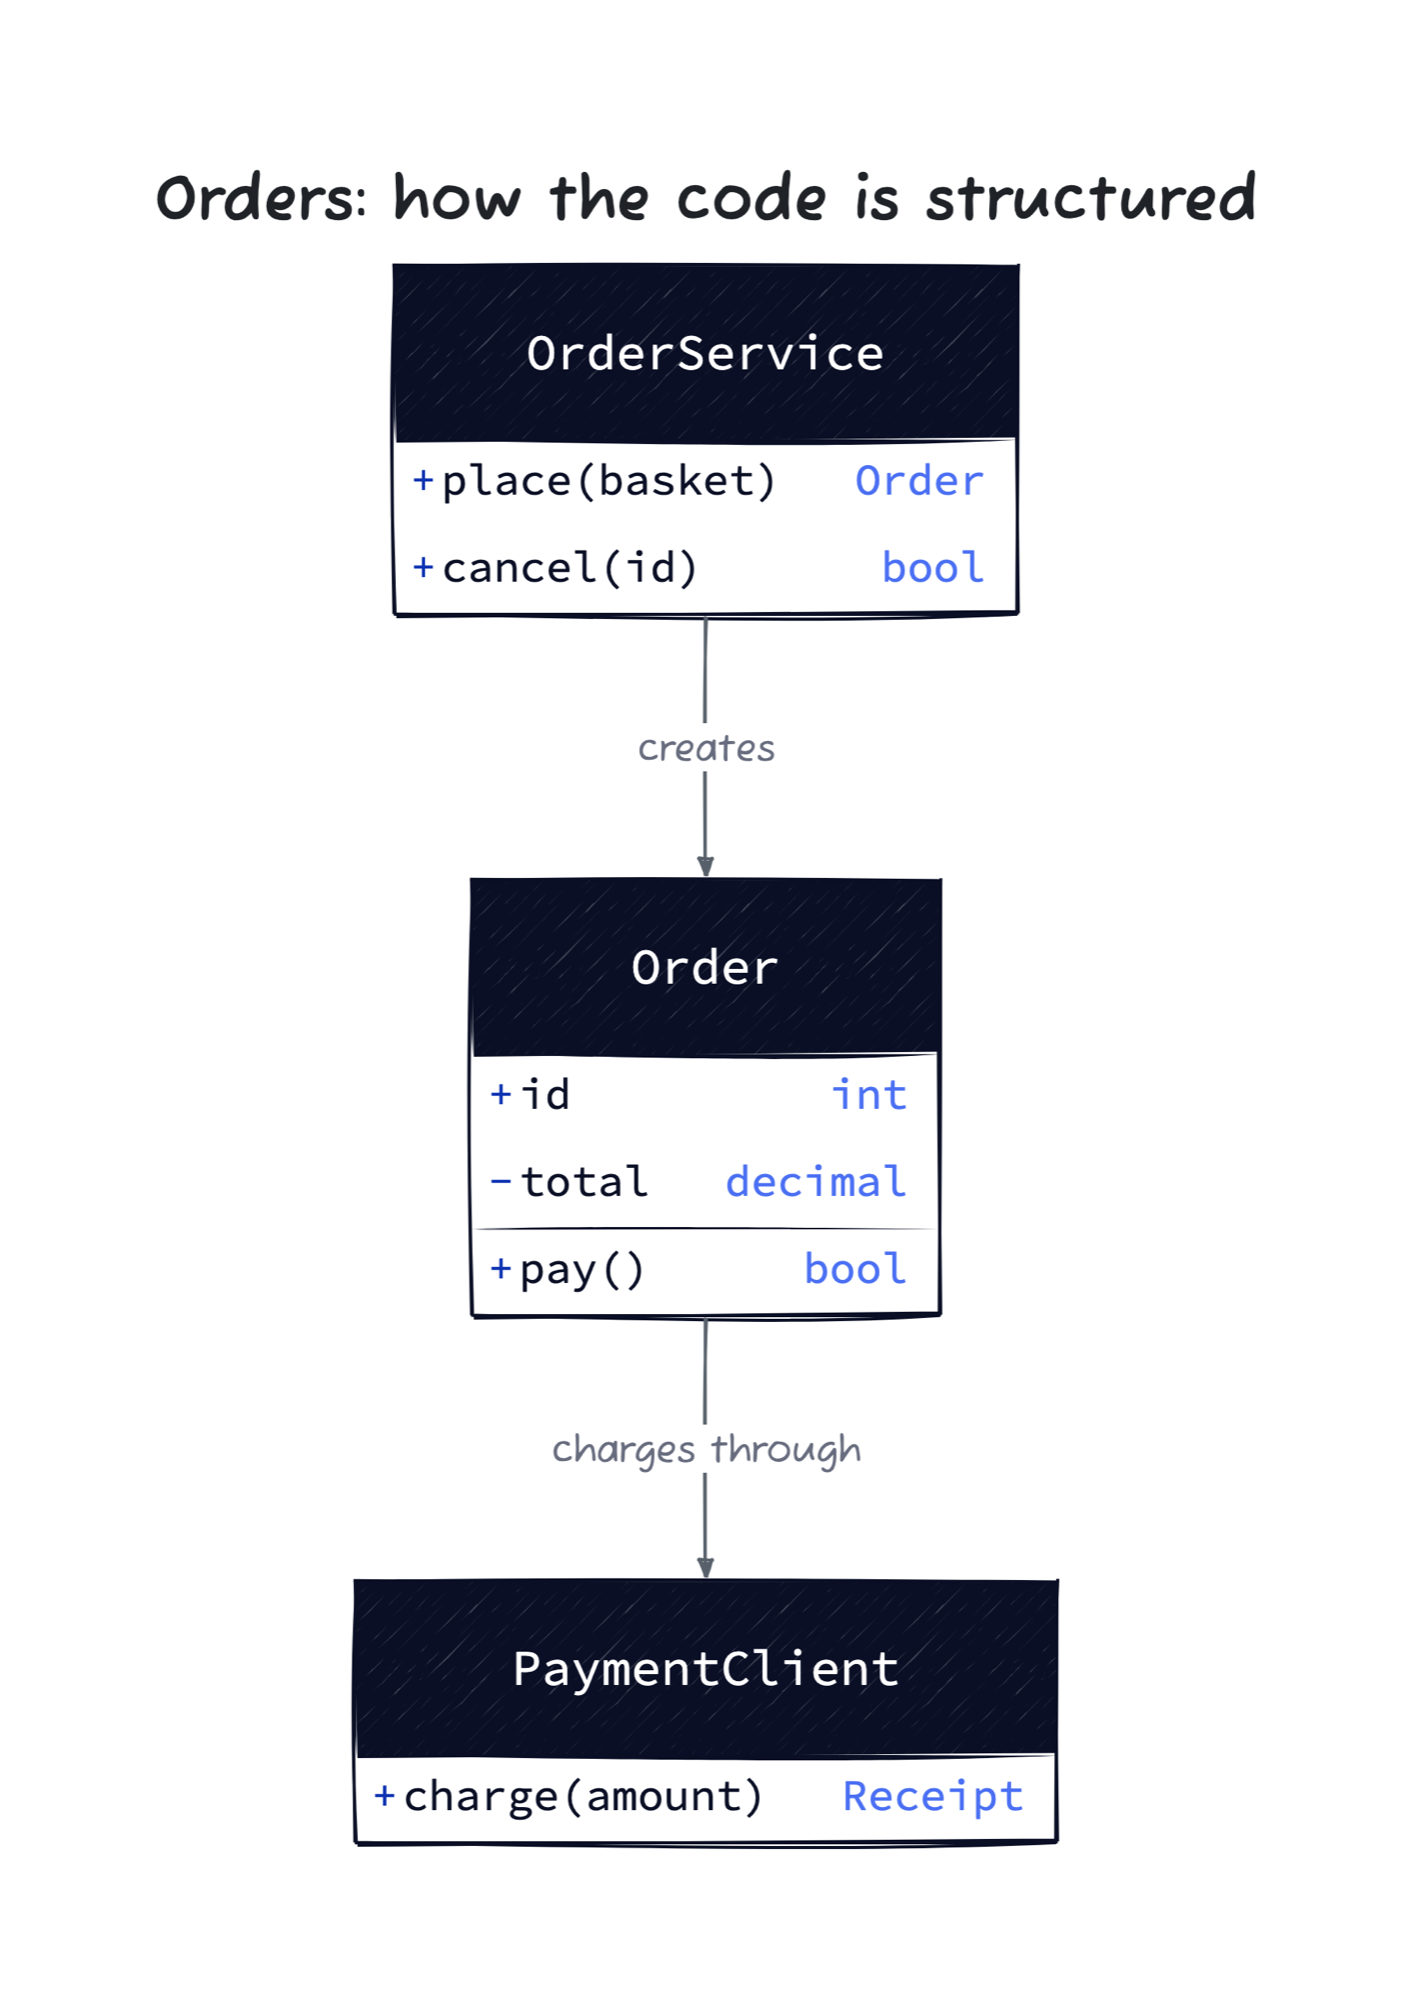
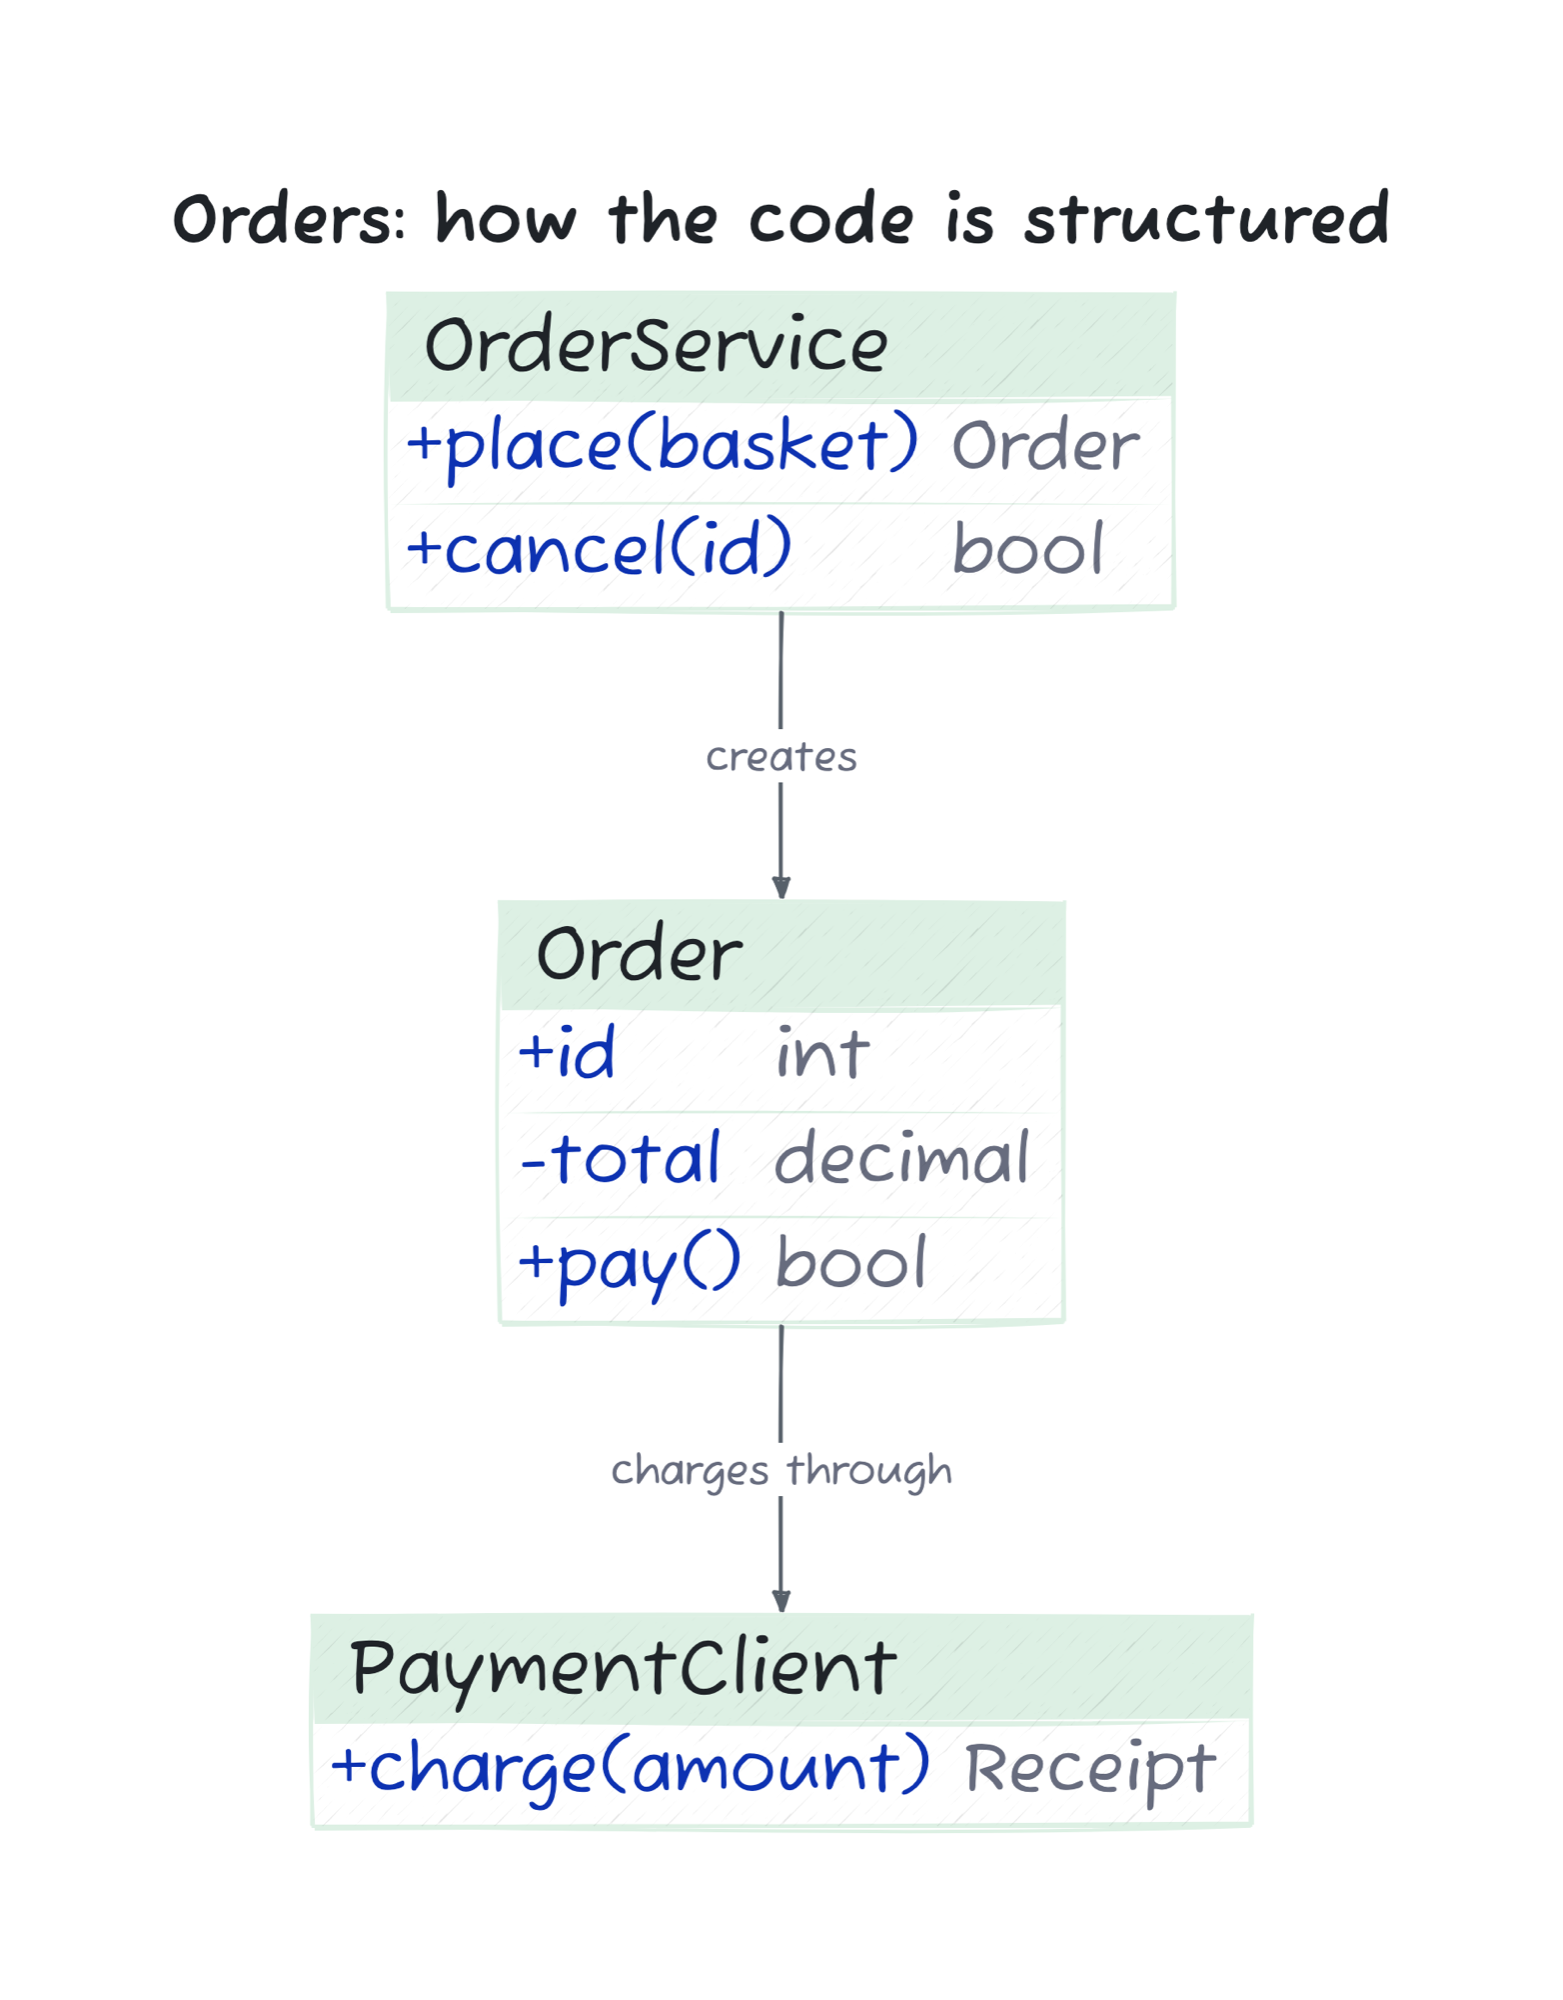
Move the diagram examples to their own page
The README keeps one diagram and links to docs/examples.md, which shows
all 11 pictures at a readable size. The code structure example now uses
the table shape with a pale header in place of near-black class headers.

diff --git a/README.md b/README.md
@@ -6,17 +6,9 @@ Readable diagrams with a consistent visual style, all drawn in D2 in a hand-draw
 
 <img src="docs/diagrams/how-it-works.png" alt="An agent plans a requested diagram, writes the D2 source, renders a PNG and checks it. If the check fails, the agent fixes the source and renders again. If it passes, the agent shares the PNG and the source." width="420">
 
-This is an agent skill. When someone has to review architecture, states, conditional logic, an exchange of messages, a data model or a customer journey, the agent picks the diagram type that fits the question. The skill covers 11 types. Each picture is a render of its source in [checks/](checks/), made with D2 0.9.0 and the render command in [SKILL.md](SKILL.md). The examples are about a fictional online shop.
+This is an agent skill. When someone has to review architecture, states, conditional logic, an exchange of messages, a data model or a customer journey, the agent picks the diagram type that fits the question.
 
-**[Box diagram](checks/architecture.d2)**<br><img src="assets/examples/architecture.png" alt="A box diagram of an online shop, with a Shop group and an External providers group." width="830">
-
-**[State diagram](checks/state.d2)**<br><img src="assets/order-states.png" alt="An order goes from Placed to Paid, Shipped and Delivered, or ends as Cancelled or Refunded." width="830">
-
-| | | |
-| --- | --- | --- |
-| **[Flow](checks/flow.d2)**<br><img src="assets/examples/flow.png" alt="A refund flow with two yes or no questions and three outcomes." width="270"> | **[Customer journey](checks/journey.d2)**<br><img src="assets/examples/journey.png" alt="A checkout journey that starts at a customer and has a declined card path." width="270"> | **[Sequence diagram](checks/sequence.d2)**<br><img src="assets/examples/sequence.png" alt="A card payment between a customer, a shop and a payment provider, with approved and declined paths." width="270"> |
-| **[Data tables](checks/tables.d2)**<br><img src="assets/examples/tables.png" alt="Three joined tables: order items, orders and customers." width="270"> | **[Code structure](checks/classes.d2)**<br><img src="assets/examples/classes.png" alt="Three classes: OrderService, Order and PaymentClient." width="270"> | **[Scenarios](checks/scenarios.d2)**<br><img src="assets/examples/scenarios.png" alt="The payment-down scenario of an online shop, with a retry queue." width="270"> |
-| **[Steps](checks/steps.d2)**<br><img src="assets/examples/steps.png" alt="The shipped step of an order, with a warehouse." width="270"> | **[Layers](checks/layers.d2)**<br><img src="assets/examples/layers.png" alt="An overview board with a Shop box that links to a detail board." width="270"> | **[Tiles](checks/grid.d2)**<br><img src="assets/examples/grid.png" alt="Six order health tiles, four marked OK and two marked Watch." width="270"> |
+**[See an example of all 11 diagram types](docs/examples.md)**
 
 ## Why it exists, and what it turned down
 
@@ -51,7 +43,8 @@ Left alone, an agent tends to draw a flowchart for everything, use the default s
 | [checks/tables.d2](checks/tables.d2), [checks/classes.d2](checks/classes.d2) | A data model with joined tables, and a code structure with classes |
 | [checks/sequence.d2](checks/sequence.d2), [checks/state.d2](checks/state.d2) | A sequence diagram with alternative paths, and a state diagram with start and end states |
 | [checks/scenarios.d2](checks/scenarios.d2), [checks/steps.d2](checks/steps.d2), [checks/layers.d2](checks/layers.d2), [checks/grid.d2](checks/grid.d2) | One example for each kind of board: variants, stages in order, a drill-down and a tiled board |
-| [assets/](assets/) | The rendered examples that this README shows |
+| [docs/examples.md](docs/examples.md) | One rendered picture for each diagram type |
+| [assets/](assets/) | The rendered examples that the examples page shows |
 | [docs/diagrams/](docs/diagrams/) | The diagram at the top of this README and its D2 source |
 | [CHANGELOG.md](CHANGELOG.md) | What changed in each release |
 

diff --git a/docs/examples.md b/docs/examples.md
@@ -1,0 +1,69 @@
+# Diagram examples
+
+Each picture is a render of its source in [checks/](../checks/), made with D2 0.9.0 and the render command in [SKILL.md](../SKILL.md). The examples are about a fictional online shop.
+
+## Box diagram
+
+What connects, and where are the boundaries? [Source](../checks/architecture.d2)
+
+<img src="../assets/examples/architecture.png" alt="A box diagram of an online shop, with a Shop group and an External providers group." width="900">
+
+## Flow
+
+Which conditions lead to which outcomes? [Source](../checks/flow.d2)
+
+<img src="../assets/examples/flow.png" alt="A refund flow with two yes or no questions and three outcomes." width="480">
+
+## Customer journey
+
+What does the customer do, including interruptions? [Source](../checks/journey.d2)
+
+<img src="../assets/examples/journey.png" alt="A checkout journey that starts at a customer and has a declined card path." width="480">
+
+## State diagram
+
+Which states and transitions are possible? [Source](../checks/state.d2)
+
+<img src="../assets/order-states.png" alt="An order goes from Placed to Paid, Shipped and Delivered, or ends as Cancelled or Refunded." width="900">
+
+## Sequence diagram
+
+Who sends what, in what order? [Source](../checks/sequence.d2)
+
+<img src="../assets/examples/sequence.png" alt="A card payment between a customer, a shop and a payment provider, with approved and declined paths." width="620">
+
+## Data tables
+
+Which tables hold the data, and how do they join? [Source](../checks/tables.d2)
+
+<img src="../assets/examples/tables.png" alt="Three joined tables: order items, orders and customers." width="760">
+
+## Code structure
+
+How is the code structured? [Source](../checks/classes.d2)
+
+<img src="../assets/examples/classes.png" alt="Three classes: OrderService, Order and PaymentClient." width="480">
+
+## Scenarios
+
+How do variants of one system differ? [Source](../checks/scenarios.d2)
+
+<img src="../assets/examples/scenarios.png" alt="The payment-down scenario of an online shop, with a retry queue." width="520">
+
+## Steps
+
+What happens at each stage, in order? [Source](../checks/steps.d2)
+
+<img src="../assets/examples/steps.png" alt="The shipped step of an order, with a warehouse." width="480">
+
+## Layers
+
+What is inside one part of an overview? [Source](../checks/layers.d2)
+
+<img src="../assets/examples/layers.png" alt="An overview board with a Shop box that links to a detail board." width="400">
+
+## Tiles
+
+How do similar items compare? [Source](../checks/grid.d2)
+
+<img src="../assets/examples/grid.png" alt="Six order health tiles, four marked OK and two marked Watch." width="700">

diff --git a/SKILL.md b/SKILL.md
@@ -26,7 +26,7 @@ Decide these four things before you write the source:
 | Which states and transitions are possible? | State diagram | "State diagrams" below |
 | Who sends what, in what order? | Sequence diagram | "Sequence diagrams" below |
 | Which tables hold the data, and how do they join? | `shape: sql_table` | [references/features.md](references/features.md) |
-| How is the code structured? | `shape: class` | [references/features.md](references/features.md) |
+| How is the code structured? | `shape: sql_table`, with one row for each member | [references/features.md](references/features.md) |
 | How do variants of one system differ? | `scenarios` | "Boards" below |
 | What happens at each stage, in order? | `steps`, as an animated SVG | "Boards" below |
 | What is inside one part of an overview? | Overview with drill-down `layers` | "Boards" below |

diff --git a/references/features.md b/references/features.md
@@ -40,9 +40,7 @@ Order: {
 }
 ```
 
-Full example: [checks/classes.d2](../checks/classes.d2).
-
-A `sql_table` and a `class` have a dark header by default. Set `style.fill` on the shape to change the header colour.
+A `sql_table` and a `class` have a dark header by default. Set `style.fill` on the shape to change the header colour. On a `class`, the fill also colours the member names, so a pale fill makes them unreadable. For a code structure in the house colours, use `shape: sql_table` with a pale `style.fill`, a white `style.stroke` and one row for each member. Its header is one row high, so set a larger `style.font-size` to make it stand out. Full example: [checks/classes.d2](../checks/classes.d2).
 
 **Code.** Put a short code sample in a block with its language name.
 
